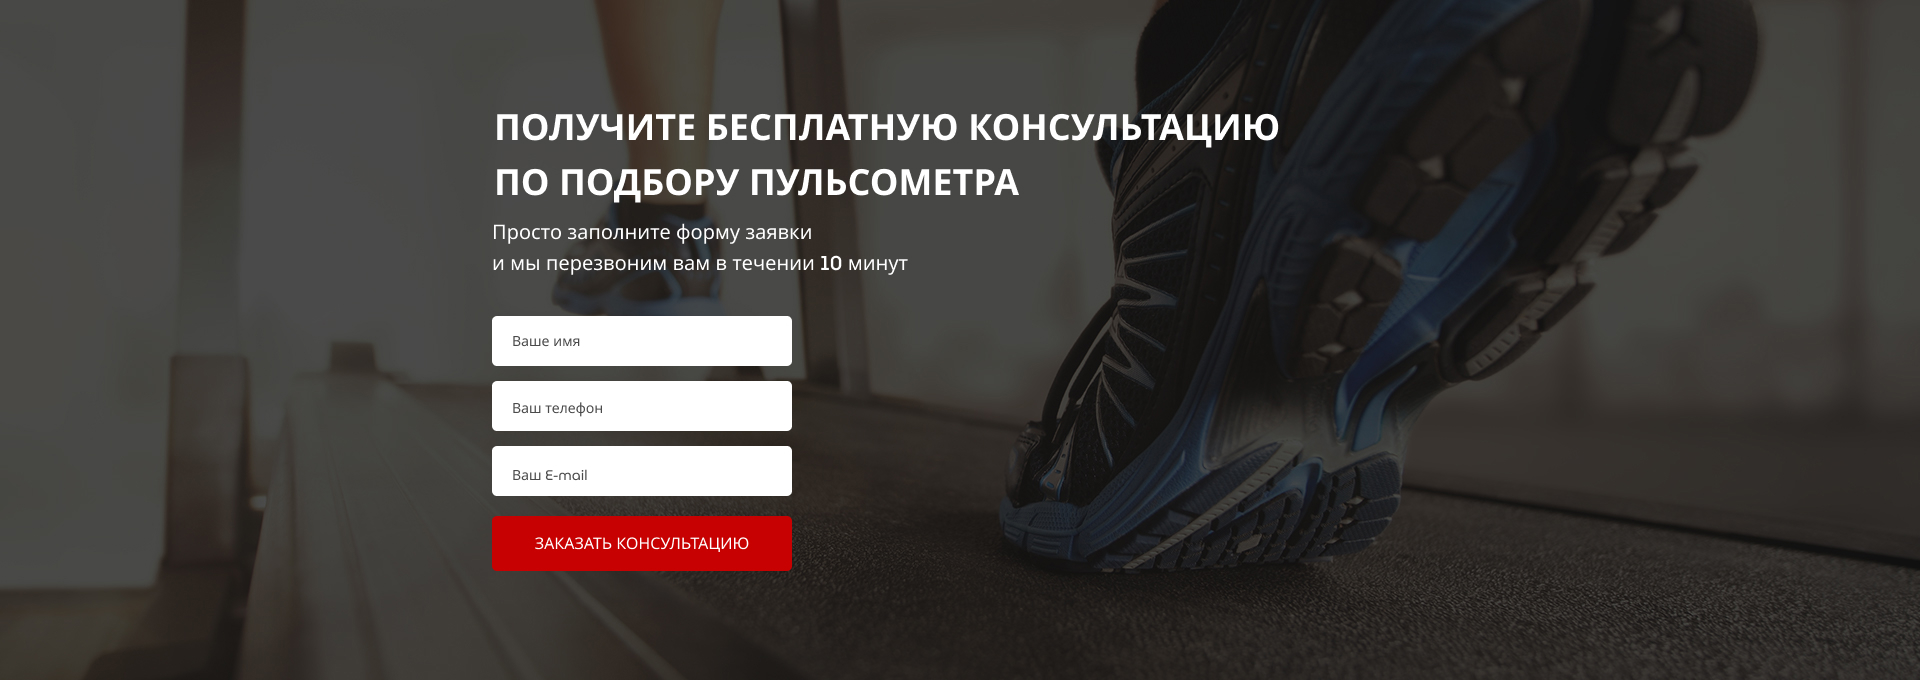
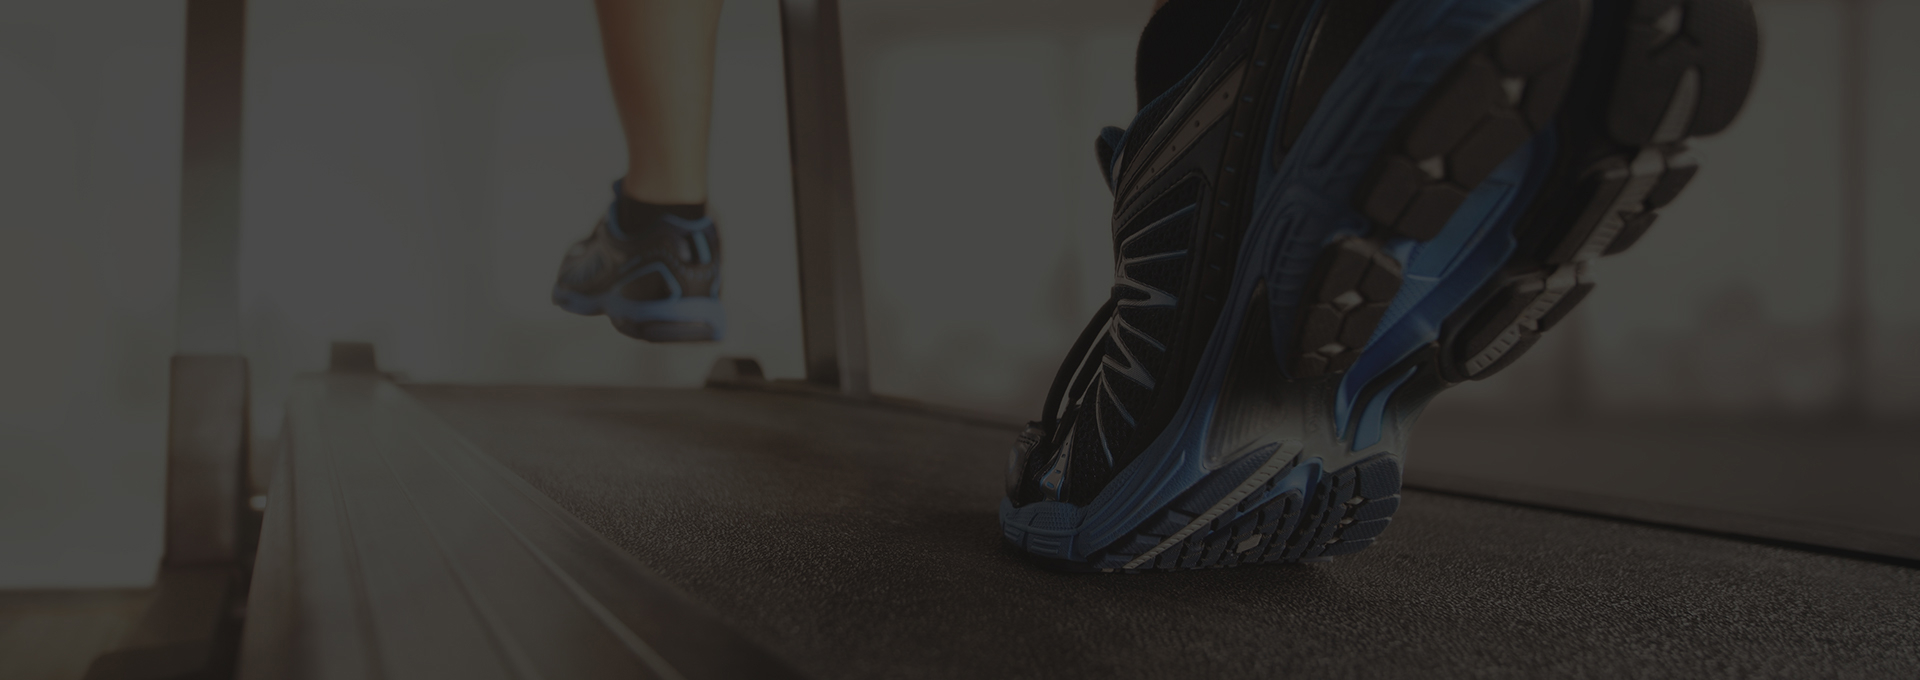
second homerwork pulse

diff --git a/src/css/style.min.css b/src/css/style.min.css
@@ -1,1 +1,1 @@
-*{box-sizing:border-box;font-family:'Museo Sans',sans-serif}.container{max-width:940px;margin:0 auto}.promo{min-height:650px;padding:21px 0 93px 0;background:url(../../img/woman-bg.jpg) center center/cover no-repeat}.promo__wrapper{display:flex;flex-direction:column;align-items:flex-end;margin-top:91px}.promo__wrapper img{width:45px;height:45px}.promo__header{font-weight:700;font-size:42px;text-transform:uppercase;color:#fff;line-height:42px}.promo__subheader{font-weight:500;font-size:24px;text-transform:uppercase;color:#fff;line-height:24px;margin-top:17px}.promo__icons{margin-top:60px;width:424px;display:flex;justify-content:space-between}.promo__icon{width:125px;text-align:center;font-weight:500;font-size:14px;color:#fff}.promo__icon img{display:block;margin:0 auto;margin-bottom:20px}.promo__link{font-weight:500;font-size:16px;color:#fff;margin-top:8px}.promo__link a{text-decoration:underline;text-transform:uppercase;color:#fff}.header{display:flex;justify-content:space-between;align-items:center}.header__logo{width:250px}.header__logo img{width:100%}.header__official{font-weight:500;font-size:12px;color:#fff;text-align:center}.header__official span{display:block;font-size:18px}.header__phone{display:block;font-weight:700;font-size:18px;color:#fff}.header__phone:hover{color:#fff;text-decoration:none}.header__contacts{display:flex;flex-direction:column;align-items:flex-end}.button{width:153px;height:32px;background:#c70101;border-radius:5px;border:none;font-weight:500;font-size:12px;text-transform:uppercase;color:#fff}.button_main{width:300px;height:50px;font-size:16px;margin-top:79px}.advantages{height:472px;padding:71px 0 64px 0;background-color:#f6f6f6}.advantages__wrapper{display:flex;justify-content:space-between;margin-top:60px}.advantages__item{max-width:269px;display:flex;flex-direction:column;align-items:center}.advantages__subheader{margin-top:35px;font-weight:700;font-size:18px;line-height:29px;color:#0d0d0d}.advantages__descr{font-weight:300;font-size:14px;color:#0d0d0d;margin-top:20px;line-height:18px;text-align:center}.advantages__descr a{text-decoration:underline;color:red}.title{text-align:center;font-weight:700;font-size:30px;color:#0d0d0d;margin-bottom:0;line-height:30px}@media (max-width:575px){.promo__header{font-size:25px}.promo__subheader{font-size:13px}.promo__wrapper{align-items:center}.promo__icons{display:flex;justify-content:space-around;width:320px}.promo__icon{font-size:13px}.promo__icon img{width:40px;height:40px}.promo .header{justify-content:space-around}.promo .header__logo{width:170px}.promo .header__logo img{width:100%}.promo .header__phone{font-size:13px}.promo .header__official{display:none}.promo .button_small{width:120px;height:20px;font-size:11px}.advantages{height:910px}.advantages .title{font-size:25px}.advantages__subheader{font-size:16px}.advantages__descr{font-size:13px}.advantages__wrapper{display:flex;flex-direction:column;align-items:center}.advantages__item{margin-top:30px}.advantages .nmt{margin-top:0}}
+*{box-sizing:border-box;font-family:'Museo Sans',sans-serif}.container{max-width:940px;margin:0 auto}.promo{min-height:650px;padding:21px 0 93px 0;background:url(../../img/woman-bg.jpg) center center/cover no-repeat}.promo__wrapper{display:flex;flex-direction:column;align-items:flex-end;margin-top:91px}.promo__wrapper img{width:45px;height:45px}.promo__header{font-weight:700;font-size:42px;text-transform:uppercase;color:#fff;line-height:42px}.promo__subheader{font-weight:500;font-size:24px;text-transform:uppercase;color:#fff;line-height:24px;margin-top:17px}.promo__icons{margin-top:60px;width:424px;display:flex;justify-content:space-between}.promo__icon{width:125px;text-align:center;font-weight:500;font-size:14px;color:#fff}.promo__icon img{display:block;margin:0 auto;margin-bottom:20px}.promo__link{font-weight:500;font-size:16px;color:#fff;margin-top:8px}.promo__link a{text-decoration:underline;text-transform:uppercase;color:#fff}.header{display:flex;justify-content:space-between;align-items:center}.header__logo{width:250px}.header__logo img{width:100%}.header__official{font-weight:500;font-size:12px;color:#fff;text-align:center}.header__official span{display:block;font-size:18px}.header__phone{display:block;font-weight:700;font-size:18px;color:#fff}.header__phone:hover{color:#fff;text-decoration:none}.header__contacts{display:flex;flex-direction:column;align-items:flex-end}.button{width:153px;height:32px;background:#c70101;border-radius:5px;border:none;font-weight:500;font-size:12px;text-transform:uppercase;color:#fff}.button_main{width:300px;height:50px;font-size:16px;margin-top:79px}.button_submit{width:100%;height:55px;font-size:16px;color:#fff}.advantages{height:472px;padding:71px 0 64px 0;background-color:#f6f6f6}.advantages__wrapper{display:flex;justify-content:space-between;margin-top:60px}.advantages__item{max-width:269px;display:flex;flex-direction:column;align-items:center}.advantages__subheader{margin-top:35px;font-weight:700;font-size:18px;line-height:29px;color:#0d0d0d}.advantages__descr{font-weight:300;font-size:14px;color:#0d0d0d;margin-top:20px;line-height:18px;text-align:center}.advantages__descr a{text-decoration:underline;color:red}.title{text-align:center;font-weight:700;font-size:30px;color:#0d0d0d;margin-bottom:0;line-height:30px;text-transform:uppercase}.title_left{font-size:36px;color:#fff;text-align:left;line-height:54px}@media (max-width:575px){.promo__header{font-size:25px}.promo__subheader{font-size:13px}.promo__wrapper{align-items:center}.promo__icons{display:flex;justify-content:space-around;width:320px}.promo__icon{font-size:13px}.promo__icon img{width:40px;height:40px}.promo .header{justify-content:space-around}.promo .header__logo{width:170px}.promo .header__logo img{width:100%}.promo .header__phone{font-size:13px}.promo .header__official{display:none}.promo .button_small{width:120px;height:24px;font-size:10px}.advantages{height:910px}.advantages .title{font-size:25px}.advantages__subheader{font-size:16px}.advantages__descr{font-size:13px}.advantages__wrapper{display:flex;flex-direction:column;align-items:center}.advantages__item{margin-top:30px}.advantages .nmt{margin-top:0}}.consultation{min-height:680px;padding:100px 0 108px 0;background:url(../../img/shoe-bg.jpg) center center/cover no-repeat}.consultation__descr{font-weight:500;font-size:20px;line-height:30px;color:#fff}.feed-form{margin-top:36px;display:flex;flex-direction:column;width:300px}.feed-form input{height:50px;background:#fff;border-radius:5px;margin-bottom:13px;border:none;padding:0 20px;font-weight:400;font-size:14px;color:#4b4b4b}.feed-form input:nth-child(3){margin-bottom:17px}

diff --git a/src/index.html b/src/index.html
@@ -83,7 +83,8 @@
                     <img src="img/shoe.png" alt="shoe">
                     <div class="advantages__subheader">Учим бегать</div>
                     <div class="advantages__descr">
-                        Помогаем с обучением правильной технике бега! Дружим с крупнейшей школой бега в России - <a href="#">I
+                        Помогаем с обучением правильной технике бега! Дружим с крупнейшей школой бега в России - <a
+                            href="#">I
                             LOVE RUNNING.</a>
                     </div>
                 </div>
@@ -91,7 +92,22 @@
         </div>
     </div>
 
-
-</body>
+    <div class="consultation">
+        <div class="container">
+            <h2 class="title title_left">
+                Получите бесплатную консультациюпо <br> подбору пульсометра 
+            </h2>
+            <div class="consultation__descr">
+                Просто заполните форму заявки <br> и мы перезвоним вам в течении 10 минут
+            </div>
+            <form class="feed-form" action="#">
+                 <input name="name" required placeholder="Ваше имя" type="text">
+                 <input name="phone" required placeholder="Ваше телефон" type="number">
+                 <input name="email" required placeholder="Ваше E-mail" type="email">
+                 <button class="button button_submit">заказать консультацию</button>
+            </form>
+        </div>
+    </div>
+</body> 
 
 </html>

diff --git a/src/sass/blocks/_forms.scss b/src/sass/blocks/_forms.scss
@@ -1,0 +1,20 @@
+.feed-form {
+    margin-top: 36px;
+    display: flex;
+    flex-direction: column;
+    width: 300px;
+    input {
+        height: 50px;
+        background: #FFFFFF;
+        border-radius: 5px;
+        margin-bottom: 13px;
+        border: none;
+        padding: 0 20px;
+        font-weight: 400;
+        font-size: 14px;
+        color: #4B4B4B;
+        &:nth-child(3) {
+            margin-bottom: 17px;
+        }
+    }
+}

diff --git a/src/sass/_media.scss b/src/sass/_media.scss
@@ -1,3 +1,7 @@
+@media (max-width: 1199px) {
+
+}
+
 @media (max-width: 575px) {
     .promo {
         &__header {
@@ -38,8 +42,8 @@
         }
         .button_small {
             width: 120px;
-            height: 20px;
-            font-size: 11px;
+            height: 24px;
+            font-size: 10px;
         }
     }
     .advantages {

diff --git a/src/sass/blocks/_consultation.scss b/src/sass/blocks/_consultation.scss
@@ -1,0 +1,11 @@
+.consultation {
+    min-height: 680px;
+    padding: 100px 0 108px 0;
+    background: url('../../img/shoe-bg.jpg') center (center/cover) no-repeat;
+    &__descr {
+        font-weight: 500;
+        font-size: 20px;
+        line-height: 30px;
+        color: #FFFFFF;
+    }
+}

diff --git a/src/sass/blocks/_titles.scss b/src/sass/blocks/_titles.scss
@@ -5,4 +5,11 @@
     color: #0D0D0D;
     margin-bottom: 0;
     line-height: 30px;
+    text-transform: uppercase;
+    &_left {
+        font-size: 36px;
+        color: #FFFFFF;
+        text-align: left;
+        line-height: 54px;
+    }
 }

diff --git a/src/sass/blocks/_buttons.scss b/src/sass/blocks/_buttons.scss
@@ -14,4 +14,10 @@
         font-size: 16px;
         margin-top: 79px;
     }
+    &_submit {
+        width: 100%;
+        height: 55px;
+        font-size: 16px;
+        color: #FFFFFF;
+    }
 }

diff --git a/src/sass/style.scss b/src/sass/style.scss
@@ -13,3 +13,5 @@
 @import 'blocks/advantages';
 @import 'blocks/titles';
 @import 'media';
+@import 'blocks/consultation';
+@import 'blocks/forms';
